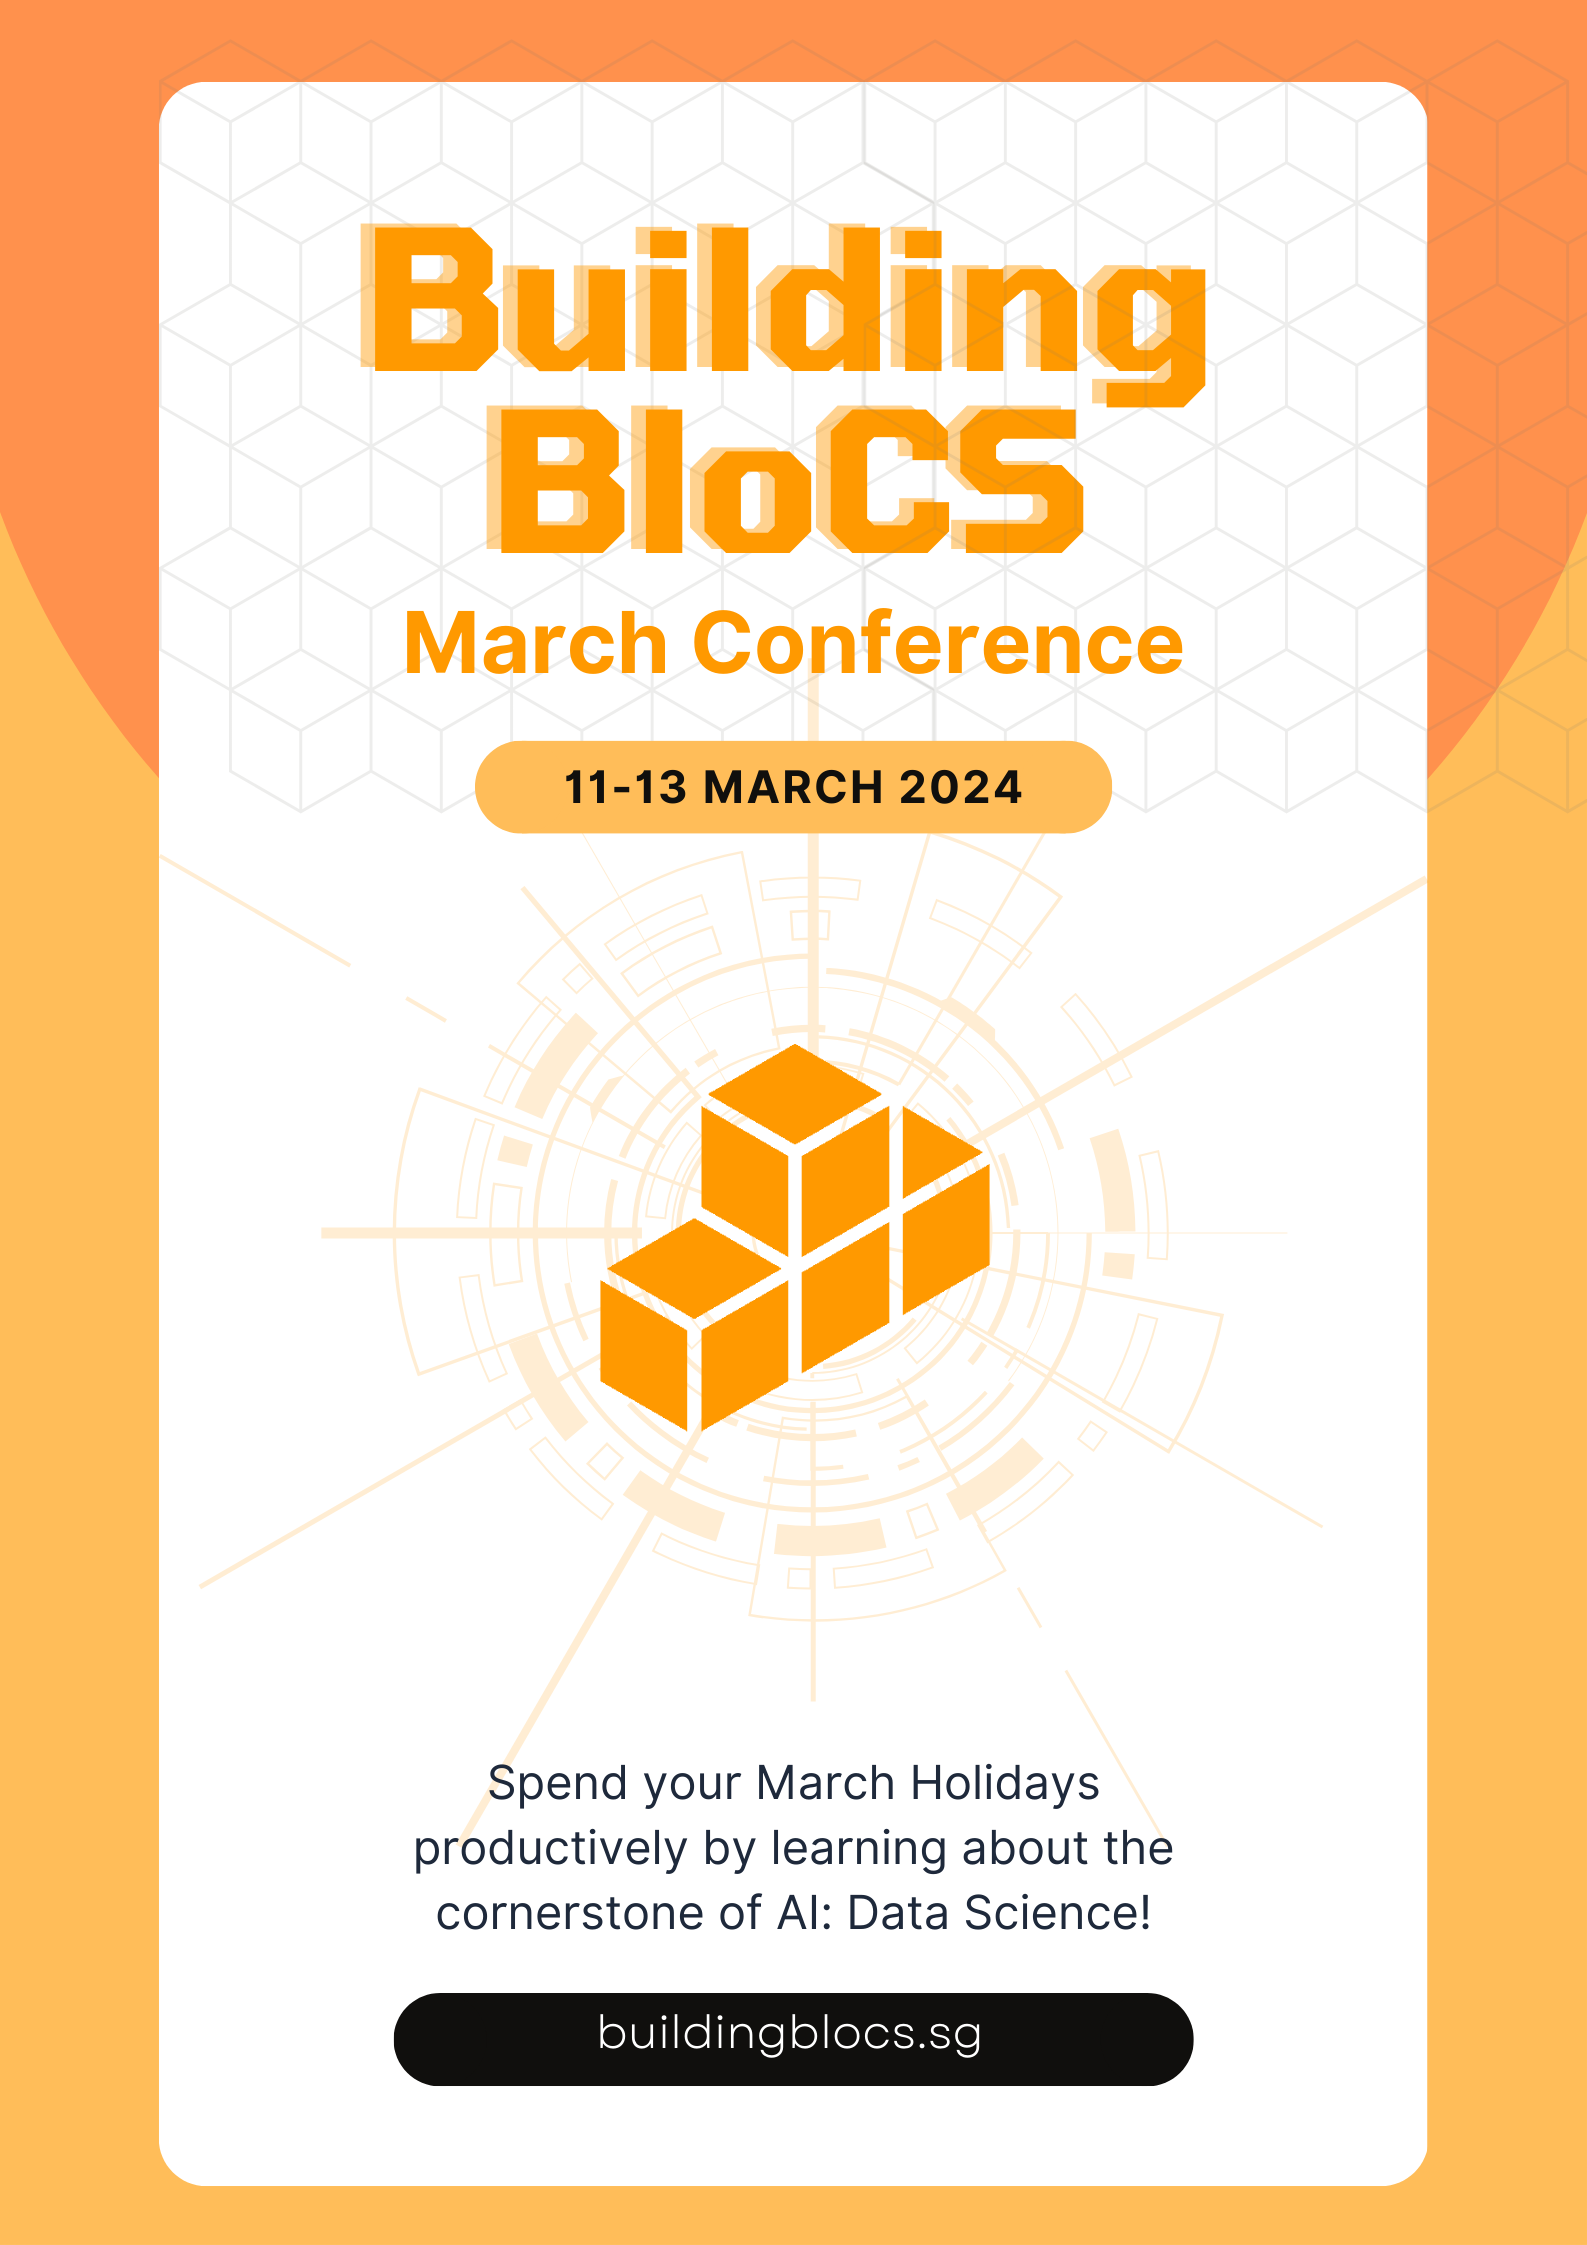
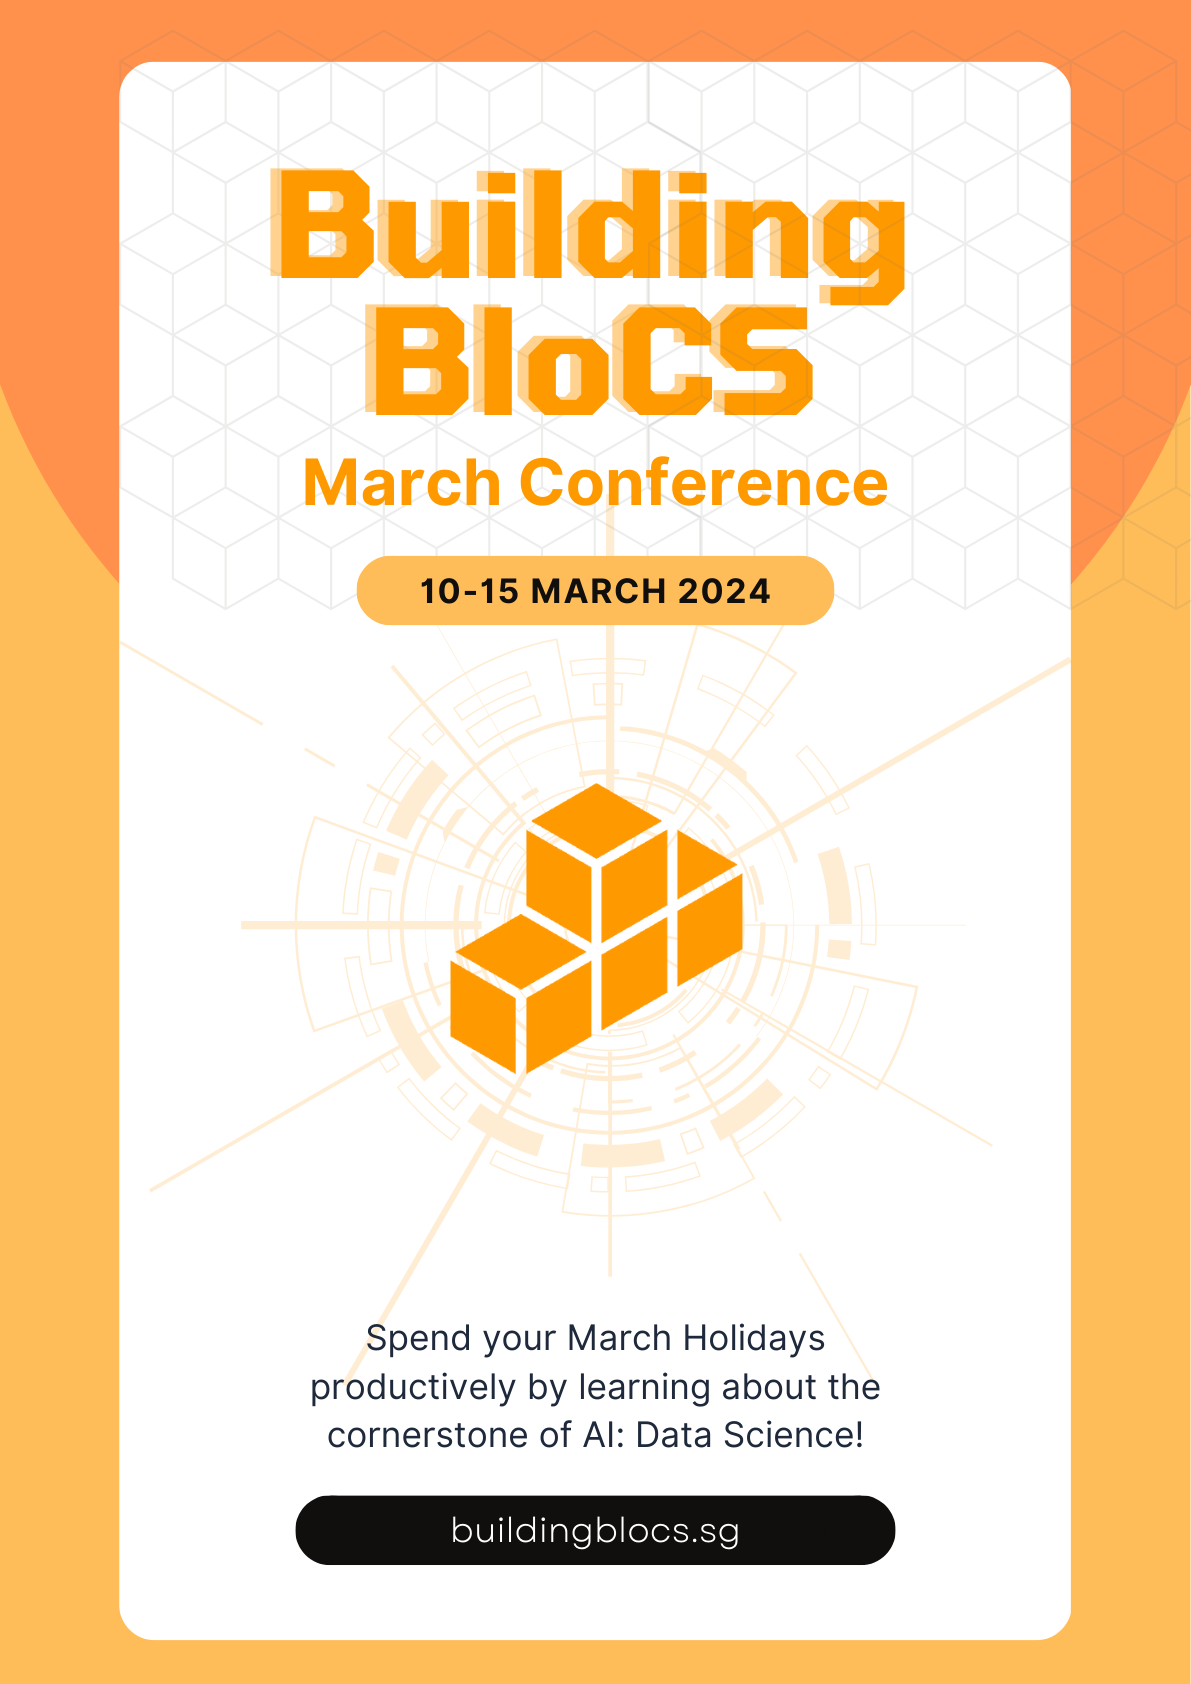
update faq and tempcta.vue

diff --git a/components/events/tempcta.vue b/components/events/tempcta.vue
@@ -20,7 +20,7 @@
           <p class="mt-6 text-lg leading-8 text-gray-300">If you're a secondary school or pre-university student
             interested in Computing, this is for you!</p>
           <div class="mt-10 flex items-center justify-center gap-x-6 lg:justify-center">
-            <NuxtLink to="https://lu.ma/march-conf"
+            <NuxtLink to="https://go.buildingblocs.sg/march24signup"
                 class="rounded-md bg-white px-3.5 py-2.5 text-sm font-semibold text-gray-900 shadow-sm hover:bg-gray-100 focus-visible:outline focus-visible:outline-2 focus-visible:outline-offset-2 focus-visible:outline-white">
               Register now <span aria-hidden="true">→</span>
               <!-- <span aria-hidden="true"></span> -->

diff --git a/content/events/march.md b/content/events/march.md
@@ -7,7 +7,7 @@ title: 'March Conference'
 # {{ $doc.title }}
 ## Key Details
 * Workshops: 10th - 12th March
-* Hackathon: 13th - 14th March
+* Hackathon: 13th - 15th March
 * Venue: Online
 * Email contact for queries: hello@buildingblocs.sg
 
